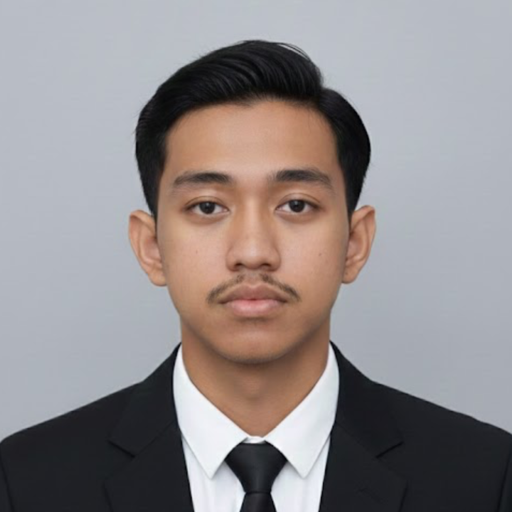
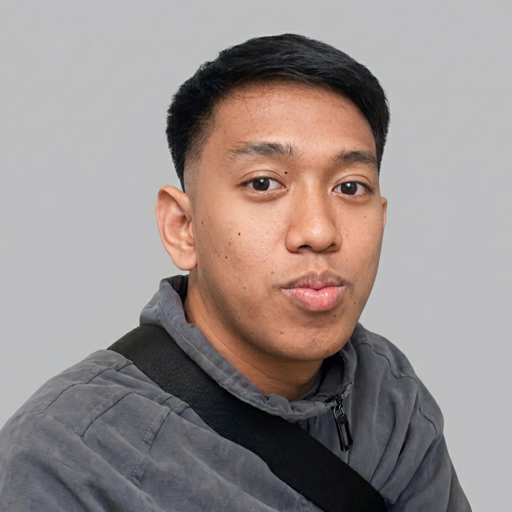
update

diff --git a/app/components/ChatAgent.tsx b/app/components/ChatAgent.tsx
@@ -4,27 +4,23 @@ import { FormEvent, useEffect, useRef, useState } from "react";
 import { HiOutlineChatBubbleLeftRight, HiOutlinePaperAirplane, HiOutlineXMark } from "react-icons/hi2";
 
 type ChatRole = "assistant" | "user";
+type ChatMode = "casual" | "rag" | "blocked";
 
 type ChatMessage = {
   id: string;
   role: ChatRole;
   content: string;
+  mode?: ChatMode;
 };
 
 type ConnectionStatus = "checking" | "online" | "offline";
-
-const starterPrompts = [
-  "What projects has Aaron built?",
-  "What is Aaron's tech stack?",
-  "How can I contact Aaron?",
-];
 
 const initialMessages: ChatMessage[] = [
   {
     id: "welcome",
     role: "assistant",
     content:
-      "Hi, I can answer questions about Aaron's work, projects, skills, and contact details.",
+      "Hi, I'm here if you'd like to ask anything about Aaron.",
   },
 ];
 
@@ -101,7 +97,11 @@ export default function ChatAgent() {
         body: JSON.stringify({ message: trimmedMessage }),
       });
 
-      const data = (await response.json()) as { response?: string; error?: string };
+      const data = (await response.json()) as {
+        response?: string;
+        error?: string;
+        mode?: ChatMode;
+      };
 
       if (!response.ok || !data.response) {
         throw new Error(data.error ?? "Chat agent failed to respond.");
@@ -116,6 +116,7 @@ export default function ChatAgent() {
           id: crypto.randomUUID(),
           role: "assistant",
           content: assistantResponse,
+          mode: data.mode,
         },
       ]);
     } catch (err) {
@@ -166,41 +167,47 @@ export default function ChatAgent() {
           aria-label="Portfolio chat assistant"
           className="mb-3 flex h-[min(620px,calc(100vh-7rem))] w-[calc(100vw-2rem)] max-w-[390px] flex-col overflow-hidden rounded-md border border-white/15 bg-neutral-950 text-white"
         >
-          <div className="flex items-center justify-between border-b border-white/10 px-4 py-3">
-            <div>
-              <div className="flex flex-wrap items-center gap-2">
-                <p className="text-sm font-semibold">Aaron AI Assistant</p>
-                <span className="inline-flex items-center gap-1.5 rounded-md border border-white/10 bg-white/5 px-2 py-0.5 text-[11px] font-semibold text-white/80">
-                  <span className={`h-2 w-2 rounded-full ${statusClasses}`} />
-                  {statusLabel}
-                </span>
+          <div className="shrink-0 border-b border-white/10 px-4 py-3">
+            <div className="flex items-center justify-between gap-3">
+              <div>
+                <div className="flex flex-wrap items-center gap-2">
+                  <p className="text-sm font-semibold">Aaron AI Assistant</p>
+                  <span className="inline-flex items-center gap-1.5 rounded-md border border-white/10 bg-white/5 px-2 py-0.5 text-[11px] font-semibold text-white/80">
+                    <span className={`h-2 w-2 rounded-full ${statusClasses}`} />
+                    {statusLabel}
+                  </span>
+                </div>
               </div>
-              <p className="text-xs text-white/60">Ask about work, skills, and projects</p>
+              <button
+                type="button"
+                aria-label="Close chat"
+                onClick={() => setIsOpen(false)}
+                className="inline-flex h-9 w-9 items-center justify-center rounded-md border border-white/10 bg-white/5 text-white transition hover:border-white/25 hover:bg-white/10"
+              >
+                <HiOutlineXMark className="h-5 w-5" />
+              </button>
             </div>
-            <button
-              type="button"
-              aria-label="Close chat"
-              onClick={() => setIsOpen(false)}
-              className="inline-flex h-9 w-9 items-center justify-center rounded-md border border-white/10 bg-white/5 text-white transition hover:border-white/25 hover:bg-white/10"
-            >
-              <HiOutlineXMark className="h-5 w-5" />
-            </button>
           </div>
 
-          <div className="flex-1 space-y-3 overflow-y-auto px-4 py-4">
+          <div className="min-h-0 flex-1 space-y-3 overflow-y-auto px-4 py-4">
             {messages.map((message) => (
               <div
                 key={message.id}
-                className={`flex ${message.role === "user" ? "justify-end" : "justify-start"}`}
+                className={`flex min-w-0 ${message.role === "user" ? "justify-end" : "justify-start"}`}
               >
-                <div
-                  className={`max-w-[85%] whitespace-pre-wrap rounded-md px-4 py-3 text-sm leading-relaxed ${
-                    message.role === "user"
-                      ? "bg-white text-neutral-950"
-                      : "border border-white/10 bg-white/8 text-white"
-                  }`}
-                >
-                  {message.content}
+                <div className={`max-w-[85%] ${message.role === "user" ? "" : "space-y-2"}`}>
+                  {message.role === "assistant" && message.mode ? (
+                    <ChatModeBadge mode={message.mode} />
+                  ) : null}
+                  <div
+                    className={`overflow-hidden whitespace-pre-wrap break-words rounded-md px-4 py-3 text-sm leading-relaxed [overflow-wrap:anywhere] ${
+                      message.role === "user"
+                        ? "bg-white text-neutral-950"
+                        : "border border-white/10 bg-white/8 text-white"
+                    }`}
+                  >
+                    {message.content}
+                  </div>
                 </div>
               </div>
             ))}
@@ -217,21 +224,7 @@ export default function ChatAgent() {
             <div ref={messagesEndRef} />
           </div>
 
-          <div className="border-t border-white/10 p-3">
-            <div className="mb-3 flex flex-wrap gap-2">
-              {starterPrompts.map((prompt) => (
-                <button
-                  key={prompt}
-                  type="button"
-                  onClick={() => sendMessage(prompt)}
-                  disabled={isLoading}
-                  className="rounded-md border border-white/10 bg-white/5 px-3 py-1.5 text-xs text-white/80 transition hover:border-white/25 hover:text-white disabled:cursor-not-allowed disabled:opacity-50"
-                >
-                  {prompt}
-                </button>
-              ))}
-            </div>
-
+          <div className="shrink-0 border-t border-white/10 p-3">
             {error ? <p className="mb-2 text-xs text-white/70">{error}</p> : null}
 
             <form onSubmit={handleSubmit} className="flex items-end gap-2">
@@ -249,7 +242,7 @@ export default function ChatAgent() {
                   }
                 }}
                 rows={1}
-                placeholder="Ask about Aaron..."
+                placeholder="Message Aaron AI Assistant..."
                 className="max-h-28 min-h-11 flex-1 resize-none rounded-md border border-white/10 bg-white/5 px-4 py-3 text-sm text-white outline-none transition placeholder:text-white/35 focus:border-white/30"
               />
               <button
@@ -280,3 +273,26 @@ export default function ChatAgent() {
     </div>
   );
 }
+
+const ChatModeBadge = ({ mode }: { mode: ChatMode }) => {
+  const label =
+    mode === "rag"
+      ? "RAG mode"
+      : mode === "blocked"
+        ? "Blocked"
+        : "Casual mode";
+
+  const dotClass =
+    mode === "rag"
+      ? "bg-sky-400"
+      : mode === "blocked"
+        ? "bg-red-400"
+        : "bg-emerald-400";
+
+  return (
+    <span className="inline-flex items-center gap-1.5 rounded-md border border-white/10 bg-white/5 px-2 py-0.5 text-[11px] font-semibold text-white/70">
+      <span className={`h-1.5 w-1.5 rounded-full ${dotClass}`} />
+      {label}
+    </span>
+  );
+};

diff --git a/app/layout.tsx b/app/layout.tsx
@@ -3,16 +3,63 @@ import ChatAgent from "./components/ChatAgent";
 import "./globals.css";
 
 export const metadata: Metadata = {
-  title: "Aaron Aludo | AI & Full Stack Engineer",
+  metadataBase: new URL("https://aaronaludo.com"),
+  title: {
+    default: "Aaron Aludo | AI & Full Stack Engineer",
+    template: "%s | Aaron Aludo"
+  },
   description:
     "AI & Full Stack Engineer building practical web and AI projects from Taytay Rizal, Philippines.",
+  keywords: [
+    "Aaron Aludo",
+    "AI Engineer",
+    "Full Stack Engineer",
+    "DevOps Engineer",
+    "Next.js Developer",
+    "React Developer",
+    "Laravel Developer",
+    "Philippines Software Engineer"
+  ],
+  authors: [{ name: "Aaron Aludo", url: "https://aaronaludo.com" }],
+  creator: "Aaron Aludo",
+  publisher: "Aaron Aludo",
+  alternates: {
+    canonical: "/"
+  },
+  openGraph: {
+    type: "website",
+    url: "/",
+    siteName: "Aaron Aludo",
+    title: "Aaron Aludo | AI & Full Stack Engineer",
+    description:
+      "AI & Full Stack Engineer building practical web and AI projects from Taytay Rizal, Philippines.",
+    images: [
+      {
+        url: "/aaron-picture.png",
+        width: 895,
+        height: 954,
+        alt: "Aaron Aludo"
+      }
+    ]
+  },
+  twitter: {
+    card: "summary_large_image",
+    title: "Aaron Aludo | AI & Full Stack Engineer",
+    description:
+      "AI & Full Stack Engineer building practical web and AI projects from Taytay Rizal, Philippines.",
+    images: ["/aaron-picture.png"]
+  },
+  robots: {
+    index: true,
+    follow: true
+  },
   icons: {
     icon: [
-      { url: "/favicon.ico" },
+      { url: "/aaron-picture.png", type: "image/png" },
       { url: "/icon.png", sizes: "512x512", type: "image/png" }
     ],
-    shortcut: ["/favicon.ico"],
-    apple: [{ url: "/icon.png", sizes: "512x512", type: "image/png" }]
+    shortcut: ["/aaron-picture.png"],
+    apple: [{ url: "/apple-icon.png", sizes: "180x180", type: "image/png" }]
   }
 };
 

diff --git a/app/projects/page.tsx b/app/projects/page.tsx
@@ -4,6 +4,7 @@ import profileData from "../../data/profile.json";
 
 type Project = {
   name: string;
+  year?: string;
   description: string;
   link?: string;
   apk?: string;
@@ -93,9 +94,16 @@ export default function ProjectsPage() {
                   className="flex h-full flex-col justify-between rounded-md border border-white/10 bg-white/5 p-5 transition duration-200 hover:-translate-y-0.5 hover:border-white/20"
                 >
                   <div className="space-y-2">
-                    <p className="text-lg font-semibold text-white">
-                      {project.name}
-                    </p>
+                    <div className="flex flex-wrap items-center gap-2">
+                      <p className="text-lg font-semibold text-white">
+                        {project.name}
+                      </p>
+                      {project.year ? (
+                        <span className="rounded-md border border-white/10 bg-white/10 px-2 py-0.5 text-xs font-semibold text-white/80">
+                          {project.year}
+                        </span>
+                      ) : null}
+                    </div>
                     <p className="text-sm text-white/90">
                       {project.description}
                     </p>

diff --git a/app/page.tsx b/app/page.tsx
@@ -49,6 +49,7 @@ type ButtonVariant = "solid" | "ghost" | "outline";
 
 type PortfolioProject = {
   name: string;
+  year?: string;
   description: string;
   logo?: string;
   link?: string;
@@ -341,7 +342,14 @@ export default function Home() {
                   <div className="flex items-start gap-3">
                     <ProjectLogo name={project.name} logo={project.logo} />
                     <div className="space-y-1">
-                      <p className="text-lg font-semibold text-white">{project.name}</p>
+                      <div className="flex flex-wrap items-center gap-2">
+                        <p className="text-lg font-semibold text-white">{project.name}</p>
+                        {project.year ? (
+                          <span className="rounded-md border border-white/10 bg-white/10 px-2 py-0.5 text-xs font-semibold text-white/80">
+                            {project.year}
+                          </span>
+                        ) : null}
+                      </div>
                       <p className="text-sm text-white/90">{project.description}</p>
                     </div>
                   </div>

diff --git a/app/api/chat/route.ts b/app/api/chat/route.ts
@@ -11,7 +11,11 @@ type ChatSource = {
 type ChatAgentResponse = {
   response: string;
   sources?: ChatSource[];
+  mode?: "casual" | "rag" | "blocked";
 };
+
+const resolveChatMode = (data: ChatAgentResponse) =>
+  data.mode ?? ((data.sources?.length ?? 0) > 0 ? "rag" : "casual");
 
 export async function POST(request: Request) {
   let message: string;
@@ -53,6 +57,7 @@ export async function POST(request: Request) {
     return NextResponse.json({
       response: data.response,
       sources: data.sources ?? [],
+      mode: resolveChatMode(data),
     });
   } catch {
     return NextResponse.json(
